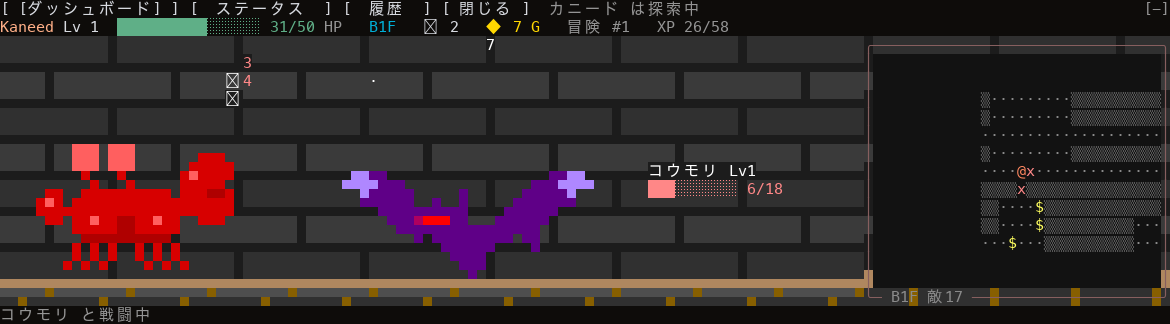
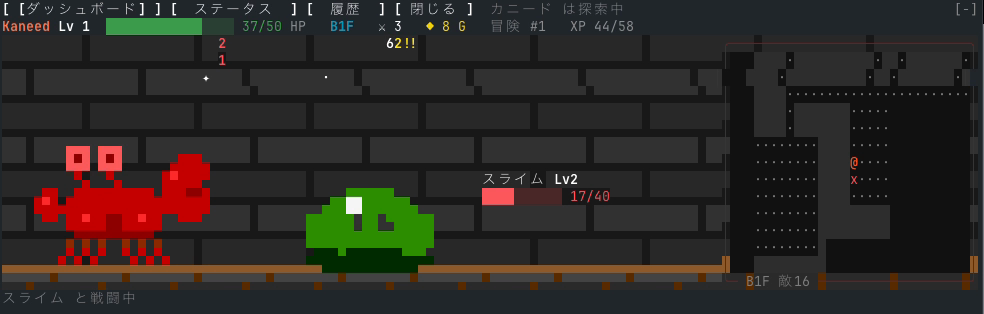
docs: README のキャプチャを現行版のプレイ動画から作り直し、ボス戦とステータス画面を追加 (#27)

diff --git a/README.md b/README.md
@@ -13,9 +13,11 @@ Claude が考えている間、カニード がプロンプトの上でダンジ
 - **ダッシュボード**では、このセッションでプラグインが受け取ったイベント、Claude のトークン消費、カニード の進行をグラフで見られる。
 - トークンは一切消費しない。すべてプラグイン内の TypeScript が処理する。
 
-![カニード が歩き、スライムと打ち合い、ダメージ数字が浮かぶ録画](docs/play.gif)
+![スライムが右から現れ、カニードが踏み込んで攻撃、撃破してレベルアップするまで](docs/play.gif)
 
-![攻撃の瞬間: 敵が赤く光り、ダメージ数字が出る](docs/fight.png)
+| ボス戦 | ステータス画面（`/kaneed status`） |
+|---|---|
+| ![コウモリのボスとの戦闘](docs/boss.gif) | ![ステータス画面: 攻撃・防御・会心・回避と 5 部位の装備](docs/status.png) |
 
 ## 主人公を自作して遊ぶ
 
